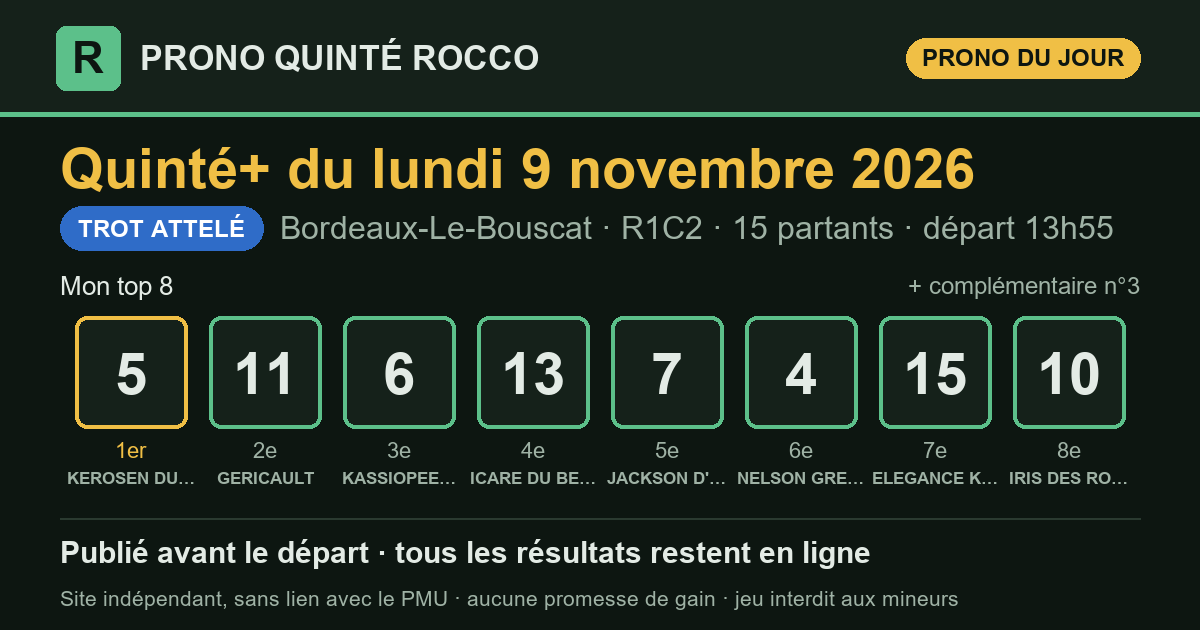
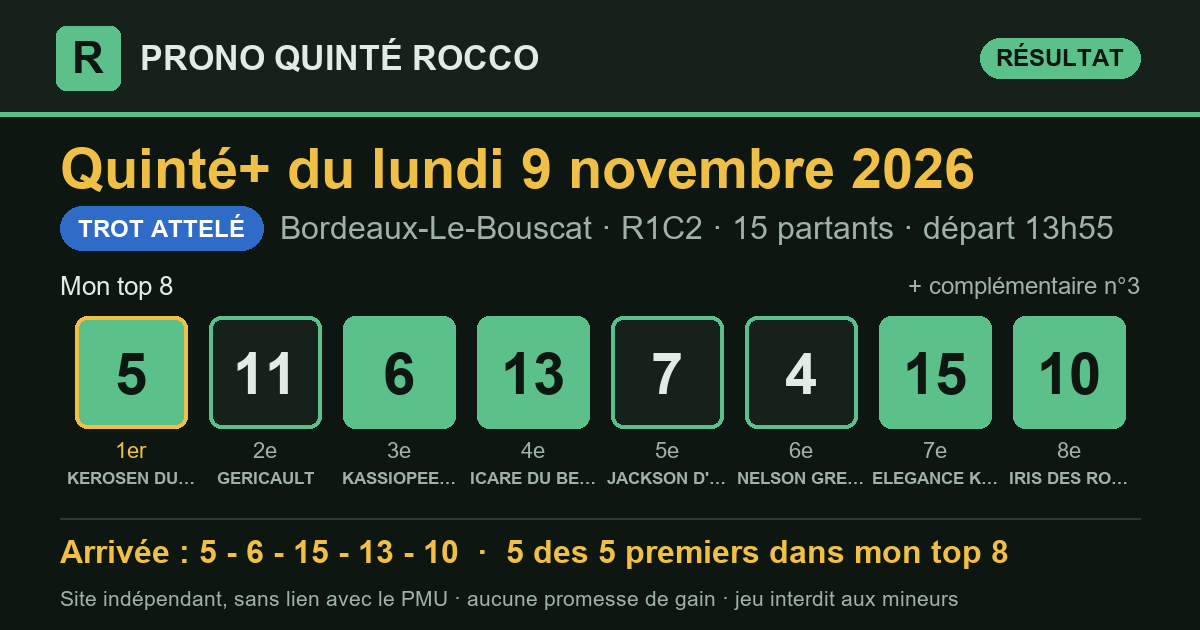
Résultat du Quinté+ 2026-11-09 Bordeaux-Le-Bouscat R1C2 — publié le 09/11/2026 14:08 (heure de Paris)

diff --git a/partants.html b/partants.html
@@ -3,7 +3,7 @@
 <head>
 <meta charset="utf-8">
 <meta name="viewport" content="width=device-width, initial-scale=1, viewport-fit=cover">
-<title>Partants du Quinté+ du lundi 9 novembre 2026 — Prono Quinté Rocco</title>
+<title>Partants du Quinté+ du mardi 10 novembre 2026 — Prono Quinté Rocco</title>
 <meta name="description" content="Les partants du prochain Quinté+ (programme officiel du PMU), avec le rang de chaque cheval dans mon prono et les liens vers les pronostics de la presse.">
 <link rel="canonical" href="https://prono-quinte-rocco.fr/partants.html">
 <link rel="stylesheet" href="style.css?v=de02f2a2">
@@ -13,7 +13,7 @@
 <meta property="og:site_name" content="Prono Quinté Rocco">
 <meta property="og:locale" content="fr_FR">
 <meta property="og:type" content="website">
-<meta property="og:title" content="Partants du Quinté+ du lundi 9 novembre 2026 — Prono Quinté Rocco">
+<meta property="og:title" content="Partants du Quinté+ du mardi 10 novembre 2026 — Prono Quinté Rocco">
 <meta property="og:description" content="Les partants du prochain Quinté+ (programme officiel du PMU), avec le rang de chaque cheval dans mon prono et les liens vers les pronostics de la presse.">
 <meta property="og:url" content="https://prono-quinte-rocco.fr/partants.html">
 <meta name="twitter:card" content="summary">
@@ -30,95 +30,100 @@
   <p class="surtitre">Programme officiel du PMU</p>
   <h1>Les partants du prochain Quinté+</h1>
   <div class="fiche-course">
-    <p class="fiche-date">Lundi 9 novembre 2026</p>
-    <div class="fiche-rc"><span class="pastille" title="Réunion 1">R1</span><span class="pastille" title="Course 2">C2</span><span class="fiche-nom">Grand Prix de l&#x27;Hippodrome du Bouscat</span></div>
-    <p class="meta"><span class="type t-attele">Trot attelé</span>Le Bouscat · 2 650 m · 15 partants</p>
+    <p class="fiche-date">Mardi 10 novembre 2026</p>
+    <div class="fiche-rc"><span class="pastille" title="Réunion 1">R1</span><span class="pastille" title="Course 4">C4</span><span class="fiche-nom">Prix Roland Fougedoire</span></div>
+    <p class="meta"><span class="type t-plat">Plat</span>Fontainebleau · 1 200 m · 16 partants</p>
     <p class="fiche-depart">Départ <b>13:55</b> <span>heure de Paris</span></p>
   </div>
   <p class="surtitre">Les pronostics ailleurs sur le web</p>
-  <div class="liens"><a class="lien-ext" href="https://www.turfoo.fr/programmes-courses/261109/reunion1-bordeaux-le-bouscat/course2-grand-prix-de-l-hippodrome-du-bouscat/pronostics-presse/" rel="noopener" target="_blank"><b>Les pronostics de la presse →</b><span>sur Turfoo (site extérieur)</span></a><a class="lien-ext" href="https://www.geny.com/programme/2026-11-09" rel="noopener" target="_blank"><b>Partants et pronostics →</b><span>programme du jour sur Geny (site extérieur)</span></a></div>
+  <div class="liens"><a class="lien-ext" href="https://www.turfoo.fr/programmes-courses/261110/reunion1-fontainebleau/course4-prix-roland-fougedoire/pronostics-presse/" rel="noopener" target="_blank"><b>Les pronostics de la presse →</b><span>sur Turfoo (site extérieur)</span></a><a class="lien-ext" href="https://www.geny.com/programme/2026-11-10" rel="noopener" target="_blank"><b>Partants et pronostics →</b><span>programme du jour sur Geny (site extérieur)</span></a></div>
   <div class="liste-boite"><table class="liste-partants">
     <thead><tr><th>N°</th><th>Cheval</th><th class="cote"><span class="long">Cote du matin</span><span class="court">Cote</span></th>
     <th class="ia"><span class="long">Mon prono</span><span class="court">Prono</span></th></tr></thead>
     <tbody><tr>
   <td><span class="tapis petit">1</span></td>
-  <td><span class="cheval">DUNA DI GIRIFALCO</span><span class="sous">Mme LANA HENRY · Y. HENRY</span></td>
-  <td class="cote num">74,0</td>
+  <td><span class="cheval">LESSLEPASSER</span><span class="sous">PC.BOUDOT · MME S.LANSLOTS</span></td>
+  <td class="cote num">—</td>
   <td class="ia">—</td>
 </tr><tr>
   <td><span class="tapis petit">2</span></td>
-  <td><span class="cheval">ROSSI GARLINE</span><span class="sous">F. GUERINEAU · A. RIPOLL RIGO</span></td>
-  <td class="cote num">152,0</td>
+  <td><span class="cheval">INTERACTIV</span><span class="sous">M.GRANDIN · MME A.KARKOSA</span></td>
+  <td class="cote num">—</td>
   <td class="ia">—</td>
 </tr><tr>
   <td><span class="tapis petit">3</span></td>
-  <td><span class="cheval">STARO RAILI</span><span class="sous">A. COLLETTE · Mme Sofia ARONSSON</span></td>
-  <td class="cote num">22,0</td>
-  <td class="ia"><span class="etat place">compl.</span></td>
+  <td><span class="cheval">GRAND SCOOP</span><span class="sous">E.HARDOUIN · G.MOSSE (S)</span></td>
+  <td class="cote num">—</td>
+  <td class="ia">—</td>
 </tr><tr>
   <td><span class="tapis petit">4</span></td>
-  <td><span class="cheval">NELSON GREENWOOD</span><span class="sous">B. ROCHARD · D. LOCQUENEUX</span></td>
-  <td class="cote num">8,2</td>
-  <td class="ia"><span class="etat place">6<sup>e</sup></span></td>
+  <td><span class="cheval">MISTER CHANG</span><span class="sous">H.JOURNIAC · Y.BARBEROT (S)</span></td>
+  <td class="cote num">—</td>
+  <td class="ia">—</td>
 </tr><tr>
   <td><span class="tapis petit">5</span></td>
-  <td><span class="cheval">KEROSEN DU GERS</span><span class="sous">E. LELIEVRE · E. LELIEVRE</span></td>
-  <td class="cote num">3,3</td>
-  <td class="ia"><span class="etat place">1<sup>er</sup></span></td>
+  <td><span class="cheval">MARBELLESA</span><span class="sous">C.SOUMILLON · M.DELCHER SANCHEZ</span></td>
+  <td class="cote num">—</td>
+  <td class="ia">—</td>
 </tr><tr>
   <td><span class="tapis petit">6</span></td>
-  <td><span class="cheval">KASSIOPEE WIND</span><span class="sous">CL. DUVALDESTIN · TH. DUVALDESTIN</span></td>
-  <td class="cote num">5,8</td>
-  <td class="ia"><span class="etat place">3<sup>e</sup></span></td>
+  <td><span class="cheval">WAZIERS</span><span class="sous">R.THOMAS · F.FORESI</span></td>
+  <td class="cote num">—</td>
+  <td class="ia">—</td>
 </tr><tr>
   <td><span class="tapis petit">7</span></td>
-  <td><span class="cheval">JACKSON D&#x27;ARC</span><span class="sous">PIERRICK LE MOEL · Pierrick LE MOEL</span></td>
-  <td class="cote num">21,0</td>
-  <td class="ia"><span class="etat place">5<sup>e</sup></span></td>
+  <td><span class="cheval">PRINCE AUBOIS</span><span class="sous">T.TRULLIER · MME S.PENOT</span></td>
+  <td class="cote num">—</td>
+  <td class="ia">—</td>
 </tr><tr>
   <td><span class="tapis petit">8</span></td>
-  <td><span class="cheval">GALANT DE CAREL</span><span class="sous">C. GAZENGEL · C. GAZENGEL</span></td>
-  <td class="cote num">158,0</td>
+  <td><span class="cheval">KHALINSKHA</span><span class="sous">A.ORANI · J.REYNIER (S)</span></td>
+  <td class="cote num">—</td>
   <td class="ia">—</td>
 </tr><tr>
   <td><span class="tapis petit">9</span></td>
-  <td><span class="cheval">IDOLE OF LOVE</span><span class="sous">D. BROSSARD · E. VARIN</span></td>
-  <td class="cote num">88,0</td>
+  <td><span class="cheval">SCHUMAN</span><span class="sous">A.MADAMET · F.MONNIER (S)</span></td>
+  <td class="cote num">—</td>
   <td class="ia">—</td>
 </tr><tr>
   <td><span class="tapis petit">10</span></td>
-  <td><span class="cheval">IRIS DES ROSEAUX</span><span class="sous">P. GERAY · A. BARRE</span></td>
-  <td class="cote num">23,0</td>
-  <td class="ia"><span class="etat place">8<sup>e</sup></span></td>
+  <td><span class="cheval">LAITH</span><span class="sous">A.LEMAITRE · J.REYNIER (S)</span></td>
+  <td class="cote num">—</td>
+  <td class="ia">—</td>
 </tr><tr>
   <td><span class="tapis petit">11</span></td>
-  <td><span class="cheval">GERICAULT</span><span class="sous">M. ABRIVARD · V. MARTENS</span></td>
-  <td class="cote num">6,5</td>
-  <td class="ia"><span class="etat place">2<sup>e</sup></span></td>
+  <td><span class="cheval">ROYALWOOD</span><span class="sous">F.VALLE SKAR · MME C.BARANDE BARBE</span></td>
+  <td class="cote num">—</td>
+  <td class="ia">—</td>
 </tr><tr>
   <td><span class="tapis petit">12</span></td>
-  <td><span class="cheval">HOLLYWOOD DU BOIS</span><span class="sous">J.Y. RICART · Mlle CL. BEILEARD</span></td>
-  <td class="cote num">55,0</td>
+  <td><span class="cheval">MATAKI</span><span class="sous">M.GUYON · MME V.DISSAUX</span></td>
+  <td class="cote num">—</td>
   <td class="ia">—</td>
 </tr><tr>
   <td><span class="tapis petit">13</span></td>
-  <td><span class="cheval">ICARE DU BERYL</span><span class="sous">M. CRIADO · Y. LACOMBE</span></td>
-  <td class="cote num">7,6</td>
-  <td class="ia"><span class="etat place">4<sup>e</sup></span></td>
+  <td><span class="cheval">ZAHARA</span><span class="sous">A.HAMELIN · M.DELCHER SANCHEZ</span></td>
+  <td class="cote num">—</td>
+  <td class="ia">—</td>
 </tr><tr>
   <td><span class="tapis petit">14</span></td>
-  <td><span class="cheval">HOLD UP DES VENTES</span><span class="sous">M. GILARD · M. GILARD</span></td>
-  <td class="cote num">96,0</td>
+  <td><span class="cheval">ALPARSLAN</span><span class="sous">A.CRASTUS · JP.CARVALHO</span></td>
+  <td class="cote num">—</td>
   <td class="ia">—</td>
 </tr><tr>
   <td><span class="tapis petit">15</span></td>
-  <td><span class="cheval">ELEGANCE KRONOS</span><span class="sous">A. ABRIVARD · L.CL. ABRIVARD</span></td>
-  <td class="cote num">11,0</td>
-  <td class="ia"><span class="etat place">7<sup>e</sup></span></td>
+  <td><span class="cheval">PAINTELLO</span><span class="sous">P.REMOUE · MME A.BUDKA</span></td>
+  <td class="cote num">—</td>
+  <td class="ia">—</td>
+</tr><tr>
+  <td><span class="tapis petit">16</span></td>
+  <td><span class="cheval">FATA MORGANA</span><span class="sous">J.CLAUDIC · F.BRESSON (S)</span></td>
+  <td class="cote num">—</td>
+  <td class="ia">—</td>
 </tr></tbody>
   </table></div>
-  <p class="meta">La colonne « Mon prono » donne le rang de chaque cheval dans mon top 8, tel qu&#x27;il est publié sur ce site. Sous chaque cheval : driver · entraîneur. Partants et cotes : programme
-  officiel du PMU, lu le 09/11 à 13:09 (heure de Paris). NP = non-partant.</p>
+  <p class="meta">Mon prono de cette course sera publié le matin de la course, avant le départ. Sous chaque cheval : jockey · entraîneur. Partants et cotes : programme
+  officiel du PMU, lu le 09/11 à 14:08 (heure de Paris). NP = non-partant.</p>
 </section>
 </main>
 <footer class="pied">

diff --git a/quinte/2026-11-09.html b/quinte/2026-11-09.html
@@ -16,7 +16,7 @@
 <meta property="og:title" content="Pronostic Quinté+ du lundi 9 novembre 2026 à Bordeaux-Le-Bouscat — Prono Quinté Rocco">
 <meta property="og:description" content="Prono Quinté+ du lundi 9 novembre 2026 (Bordeaux-Le-Bouscat) : mon top 8, l&#x27;arrivée officielle et les rapports PMU.fr.">
 <meta property="og:url" content="https://prono-quinte-rocco.fr/quinte/2026-11-09.html">
-<meta property="og:image" content="https://prono-quinte-rocco.fr/partage/2026-11-09.png?v=860465c1">
+<meta property="og:image" content="https://prono-quinte-rocco.fr/partage/2026-11-09.png?v=8c63426c">
 <meta property="og:image:type" content="image/png">
 <meta property="og:image:width" content="1200">
 <meta property="og:image:height" content="630">
@@ -36,15 +36,25 @@
   <h1>Pronostic Quinté+ du lundi 9 novembre 2026</h1>
   <p class="chapo">Bordeaux-Le-Bouscat · R1C2 · Attelé · 15 partants</p>
   <article class="carte-course">
-  <div class="tete"><h2>Mon prono</h2><span class="type t-attele">Trot attelé</span></div>
+  <div class="tete"><h2>Mon prono et l&#x27;arrivée officielle</h2><span class="type t-attele">Trot attelé</span></div>
   <p class="meta">Bordeaux-Le-Bouscat · <strong>R1C2</strong> · 15 partants · <span class="lisib">lisibilité <span class="note" aria-label="note 3 sur 5" title="lisibilité 3/5 : course assez ouverte"><i class="on"></i><i class="on"></i><i class="on"></i><i class=""></i><i class=""></i></span> 3/5</span></p>
   <div class="zone-prono">
     <h3 class="zone-titre">Mon top 8</h3>
-    <ol class="partants" aria-label="Mon top 8"><li><span class="rang">1<sup>er</sup></span><span class="tapis ">5</span><span class="nom">KEROSEN DU GERS</span></li><li><span class="rang">2<sup>e</sup></span><span class="tapis ">11</span><span class="nom">GERICAULT</span></li><li><span class="rang">3<sup>e</sup></span><span class="tapis ">6</span><span class="nom">KASSIOPEE WIND</span></li><li><span class="rang">4<sup>e</sup></span><span class="tapis ">13</span><span class="nom">ICARE DU BERYL</span></li><li><span class="rang">5<sup>e</sup></span><span class="tapis ">7</span><span class="nom">JACKSON D&#x27;ARC</span></li><li><span class="rang">6<sup>e</sup></span><span class="tapis ">4</span><span class="nom">NELSON GREENWOOD</span></li><li><span class="rang">7<sup>e</sup></span><span class="tapis ">15</span><span class="nom">ELEGANCE KRONOS</span></li><li><span class="rang">8<sup>e</sup></span><span class="tapis ">10</span><span class="nom">IRIS DES ROSEAUX</span></li><li><span class="rang">compl.</span><span class="tapis creux">3</span><span class="nom">STARO RAILI</span></li></ol>
+    <ol class="partants" aria-label="Mon top 8"><li><span class="rang">1<sup>er</sup></span><span class="tapis plein">5</span><span class="nom">KEROSEN DU GERS</span></li><li><span class="rang">2<sup>e</sup></span><span class="tapis ">11</span><span class="nom">GERICAULT</span></li><li><span class="rang">3<sup>e</sup></span><span class="tapis plein">6</span><span class="nom">KASSIOPEE WIND</span></li><li><span class="rang">4<sup>e</sup></span><span class="tapis plein">13</span><span class="nom">ICARE DU BERYL</span></li><li><span class="rang">5<sup>e</sup></span><span class="tapis ">7</span><span class="nom">JACKSON D&#x27;ARC</span></li><li><span class="rang">6<sup>e</sup></span><span class="tapis ">4</span><span class="nom">NELSON GREENWOOD</span></li><li><span class="rang">7<sup>e</sup></span><span class="tapis plein">15</span><span class="nom">ELEGANCE KRONOS</span></li><li><span class="rang">8<sup>e</sup></span><span class="tapis plein">10</span><span class="nom">IRIS DES ROSEAUX</span></li><li><span class="rang">compl.</span><span class="tapis creux">3</span><span class="nom">STARO RAILI</span></li></ol>
     <div class="pied-carte"><span>Analysé le 09/11 à 11:20 · en ligne le 09/11 à 11:30 · départ à 13:55 (heure de Paris)</span><span></span></div>
   </div>
-  <div class="zone-arrivee attente"><p>L'arrivée officielle s'affichera ici après la course.</p></div>
+  <div class="zone-arrivee">
+    <div class="zone-tete"><h3 class="zone-titre">Arrivée officielle</h3><span class="etat top">5 des 5 premiers dans mon top 8</span><span class="etat gagne">mon 1er (n°5) : gagnant</span></div>
+    <ol class="partants" aria-label="Arrivée officielle"><li><span class="rang">1<sup>er</sup></span><span class="tapis plein">5</span><span class="nom">KEROSEN DU GERS</span></li><li><span class="rang">2<sup>e</sup></span><span class="tapis plein">6</span><span class="nom">KASSIOPEE WIND</span></li><li><span class="rang">3<sup>e</sup></span><span class="tapis plein">15</span><span class="nom">ELEGANCE KRONOS</span></li><li><span class="rang">4<sup>e</sup></span><span class="tapis plein">13</span><span class="nom">ICARE DU BERYL</span></li><li><span class="rang">5<sup>e</sup></span><span class="tapis plein">10</span><span class="nom">IRIS DES ROSEAUX</span></li></ol>
+  </div>
 </article>
+<section class="carte-course rapports" aria-labelledby="t-rap">
+  <div class="tete"><h2 id="t-rap">Les rapports</h2></div>
+  <div class="deux">
+    <div><h3>Ce qu'aurait rendu mon prono</h3><dl class="kv"><dt>1 € placé sur mon 1er (n°5)</dt><dd>rapport manquant</dd><dt>1 € gagnant sur mon 1er</dt><dd>rapport manquant</dd></dl></div>
+    <div><h3>Rapports officiels</h3><dl class="kv"><dt>rapports indisponibles</dt><dd></dd></dl></div>
+  </div>
+</section>
 </section>
 </main>
 <footer class="pied">

diff --git a/index.html b/index.html
@@ -16,7 +16,7 @@
 <meta property="og:title" content="Pronostic Quinté+ du lundi 9 novembre 2026 — Prono Quinté Rocco">
 <meta property="og:description" content="Pronostic Quinté+ du jour : mon top 8, publié avant le départ, puis tous les résultats et le rendement réel.">
 <meta property="og:url" content="https://prono-quinte-rocco.fr/">
-<meta property="og:image" content="https://prono-quinte-rocco.fr/partage/2026-11-09.png?v=860465c1">
+<meta property="og:image" content="https://prono-quinte-rocco.fr/partage/2026-11-09.png?v=8c63426c">
 <meta property="og:image:type" content="image/png">
 <meta property="og:image:width" content="1200">
 <meta property="og:image:height" content="630">
@@ -32,7 +32,7 @@
 <div class="jeux j-quinte" role="navigation" aria-label="Choix du jeu"><a class="jeu jeu-quinte actif" href="index.html" aria-current="true">Quinté+</a><a class="jeu jeu-sp5" href="superpick5.html">e-Super Pick5<small>entre 17 h et 19 h</small></a></div>
 <main>
 <section class="une" aria-labelledby="t-jour">
-  <p class="surtitre">Quinté+ du jour</p>
+  <p class="surtitre">Dernier Quinté+</p>
   <h1 id="t-jour">Le prono du Quinté+, résultats compris</h1>
   <p class="chapo">Chaque matin, j'étudie les partants du Quinté+ avec le logiciel que
   j'ai conçu, selon ma propre méthode, qu'une intelligence artificielle m'aide à
@@ -43,10 +43,13 @@
   <p class="meta">Bordeaux-Le-Bouscat · <strong>R1C2</strong> · 15 partants · <span class="lisib">lisibilité <span class="note" aria-label="note 3 sur 5" title="lisibilité 3/5 : course assez ouverte"><i class="on"></i><i class="on"></i><i class="on"></i><i class=""></i><i class=""></i></span> 3/5</span></p>
   <div class="zone-prono">
     <h3 class="zone-titre">Mon top 8</h3>
-    <ol class="partants" aria-label="Mon top 8"><li><span class="rang">1<sup>er</sup></span><span class="tapis ">5</span><span class="nom">KEROSEN DU GERS</span></li><li><span class="rang">2<sup>e</sup></span><span class="tapis ">11</span><span class="nom">GERICAULT</span></li><li><span class="rang">3<sup>e</sup></span><span class="tapis ">6</span><span class="nom">KASSIOPEE WIND</span></li><li><span class="rang">4<sup>e</sup></span><span class="tapis ">13</span><span class="nom">ICARE DU BERYL</span></li><li><span class="rang">5<sup>e</sup></span><span class="tapis ">7</span><span class="nom">JACKSON D&#x27;ARC</span></li><li><span class="rang">6<sup>e</sup></span><span class="tapis ">4</span><span class="nom">NELSON GREENWOOD</span></li><li><span class="rang">7<sup>e</sup></span><span class="tapis ">15</span><span class="nom">ELEGANCE KRONOS</span></li><li><span class="rang">8<sup>e</sup></span><span class="tapis ">10</span><span class="nom">IRIS DES ROSEAUX</span></li><li><span class="rang">compl.</span><span class="tapis creux">3</span><span class="nom">STARO RAILI</span></li></ol>
+    <ol class="partants" aria-label="Mon top 8"><li><span class="rang">1<sup>er</sup></span><span class="tapis plein">5</span><span class="nom">KEROSEN DU GERS</span></li><li><span class="rang">2<sup>e</sup></span><span class="tapis ">11</span><span class="nom">GERICAULT</span></li><li><span class="rang">3<sup>e</sup></span><span class="tapis plein">6</span><span class="nom">KASSIOPEE WIND</span></li><li><span class="rang">4<sup>e</sup></span><span class="tapis plein">13</span><span class="nom">ICARE DU BERYL</span></li><li><span class="rang">5<sup>e</sup></span><span class="tapis ">7</span><span class="nom">JACKSON D&#x27;ARC</span></li><li><span class="rang">6<sup>e</sup></span><span class="tapis ">4</span><span class="nom">NELSON GREENWOOD</span></li><li><span class="rang">7<sup>e</sup></span><span class="tapis plein">15</span><span class="nom">ELEGANCE KRONOS</span></li><li><span class="rang">8<sup>e</sup></span><span class="tapis plein">10</span><span class="nom">IRIS DES ROSEAUX</span></li><li><span class="rang">compl.</span><span class="tapis creux">3</span><span class="nom">STARO RAILI</span></li></ol>
     <div class="pied-carte"><span>Analysé le 09/11 à 11:20 · en ligne le 09/11 à 11:30 · départ à 13:55 (heure de Paris)</span><span><a href="quinte/2026-11-09.html">Détail de la course</a></span></div>
   </div>
-  <div class="zone-arrivee attente"><p>L'arrivée officielle s'affichera ici après la course.</p></div>
+  <div class="zone-arrivee">
+    <div class="zone-tete"><h3 class="zone-titre">Arrivée officielle</h3><span class="etat top">5 des 5 premiers dans mon top 8</span><span class="etat gagne">mon 1er (n°5) : gagnant</span></div>
+    <ol class="partants" aria-label="Arrivée officielle"><li><span class="rang">1<sup>er</sup></span><span class="tapis plein">5</span><span class="nom">KEROSEN DU GERS</span></li><li><span class="rang">2<sup>e</sup></span><span class="tapis plein">6</span><span class="nom">KASSIOPEE WIND</span></li><li><span class="rang">3<sup>e</sup></span><span class="tapis plein">15</span><span class="nom">ELEGANCE KRONOS</span></li><li><span class="rang">4<sup>e</sup></span><span class="tapis plein">13</span><span class="nom">ICARE DU BERYL</span></li><li><span class="rang">5<sup>e</sup></span><span class="tapis plein">10</span><span class="nom">IRIS DES ROSEAUX</span></li></ol>
+  </div>
 </article>
 </section>
 <section class="suivre" aria-label="Suivre et soutenir">

diff --git a/resultats.html b/resultats.html
@@ -49,12 +49,12 @@
     <th colspan="4" class="res g-res">Le résultat officiel</th></tr>
     <tr><th>Date</th><th>Course</th><th>Top 8</th><th class="c-lis">Lisibilité</th><th class="res c-arr">Arrivée</th>
     <th class="res">Trouvés</th><th class="res">Mon 1er</th><th class="res mont">Quinté+ top 8<br><small>(mise 112 €)</small></th></tr></thead>
-    <tbody><tr class="attente">
+    <tbody><tr>
   <td class="c-date"><a href="quinte/2026-11-09.html">09/11</a></td>
   <td class="c-course">Bordeaux-Le-Bouscat<br><span class="meta">R1C2</span><span class="type t-attele petit">Attelé</span></td>
-  <td class="c-top8" data-label="Mon top 8"><div class="rangee"><span class="tapis petit">5</span><span class="tapis petit">11</span><span class="tapis petit">6</span><span class="tapis petit">13</span><span class="tapis petit">7</span><span class="tapis petit">4</span><span class="tapis petit">15</span><span class="tapis petit">10</span></div></td>
+  <td class="c-top8" data-label="Mon top 8"><div class="rangee"><span class="tapis plein petit">5</span><span class="tapis petit">11</span><span class="tapis plein petit">6</span><span class="tapis plein petit">13</span><span class="tapis petit">7</span><span class="tapis petit">4</span><span class="tapis plein petit">15</span><span class="tapis plein petit">10</span></div></td>
   <td class="c-lis" data-label="Lisibilité"><span class="note" aria-label="note 3 sur 5" title="lisibilité 3/5 : course assez ouverte"><i class="on"></i><i class="on"></i><i class="on"></i><i class=""></i><i class=""></i></span> 3/5</td>
-  <td class="res c-arr" data-label="Arrivée"><span class="etat attente">en attente</span></td><td class="res num c-trouves" data-label="Trouvés">—</td><td class="res c-premier" data-label="Mon 1er"><span class="etat attente">—</span></td><td class="res mont c-mont" data-label="Quinté+ top 8 (mise 112 €)">—</td>
+  <td class="res c-arr" data-label="Arrivée"><div class="rangee"><span class="tapis plein petit" title="1er">5</span><span class="tapis plein petit" title="2e">6</span><span class="tapis plein petit" title="3e">15</span><span class="tapis plein petit" title="4e">13</span><span class="tapis plein petit" title="5e">10</span></div></td><td class="res num c-trouves" data-label="Trouvés"><span class="etat top" title="les 5 premiers sont dans mon top 8">5/5</span></td><td class="res c-premier" data-label="Mon 1er"><span class="etat gagne">gagnant</span></td><td class="res mont c-mont" data-label="Quinté+ top 8 (mise 112 €)">—</td>
 </tr><tr>
   <td class="c-date"><a href="quinte/2026-11-08.html">08/11</a></td>
   <td class="c-course">Saint-Cloud<br><span class="meta">R1C5</span><span class="type t-plat petit">Plat</span></td>

diff --git a/superpick5-partants.html b/superpick5-partants.html
@@ -123,7 +123,7 @@
 </tr></tbody>
   </table></div>
   <p class="meta">La colonne « Mon prono » donne le rang de chaque cheval dans mon top 8, tel qu&#x27;il est publié sur ce site. Sous chaque cheval : driver · entraîneur. Partants et cotes : programme
-  officiel du PMU, lu le 09/11 à 13:09 (heure de Paris). NP = non-partant.</p>
+  officiel du PMU, lu le 09/11 à 14:08 (heure de Paris). NP = non-partant.</p>
 </section>
 </main>
 <footer class="pied">
